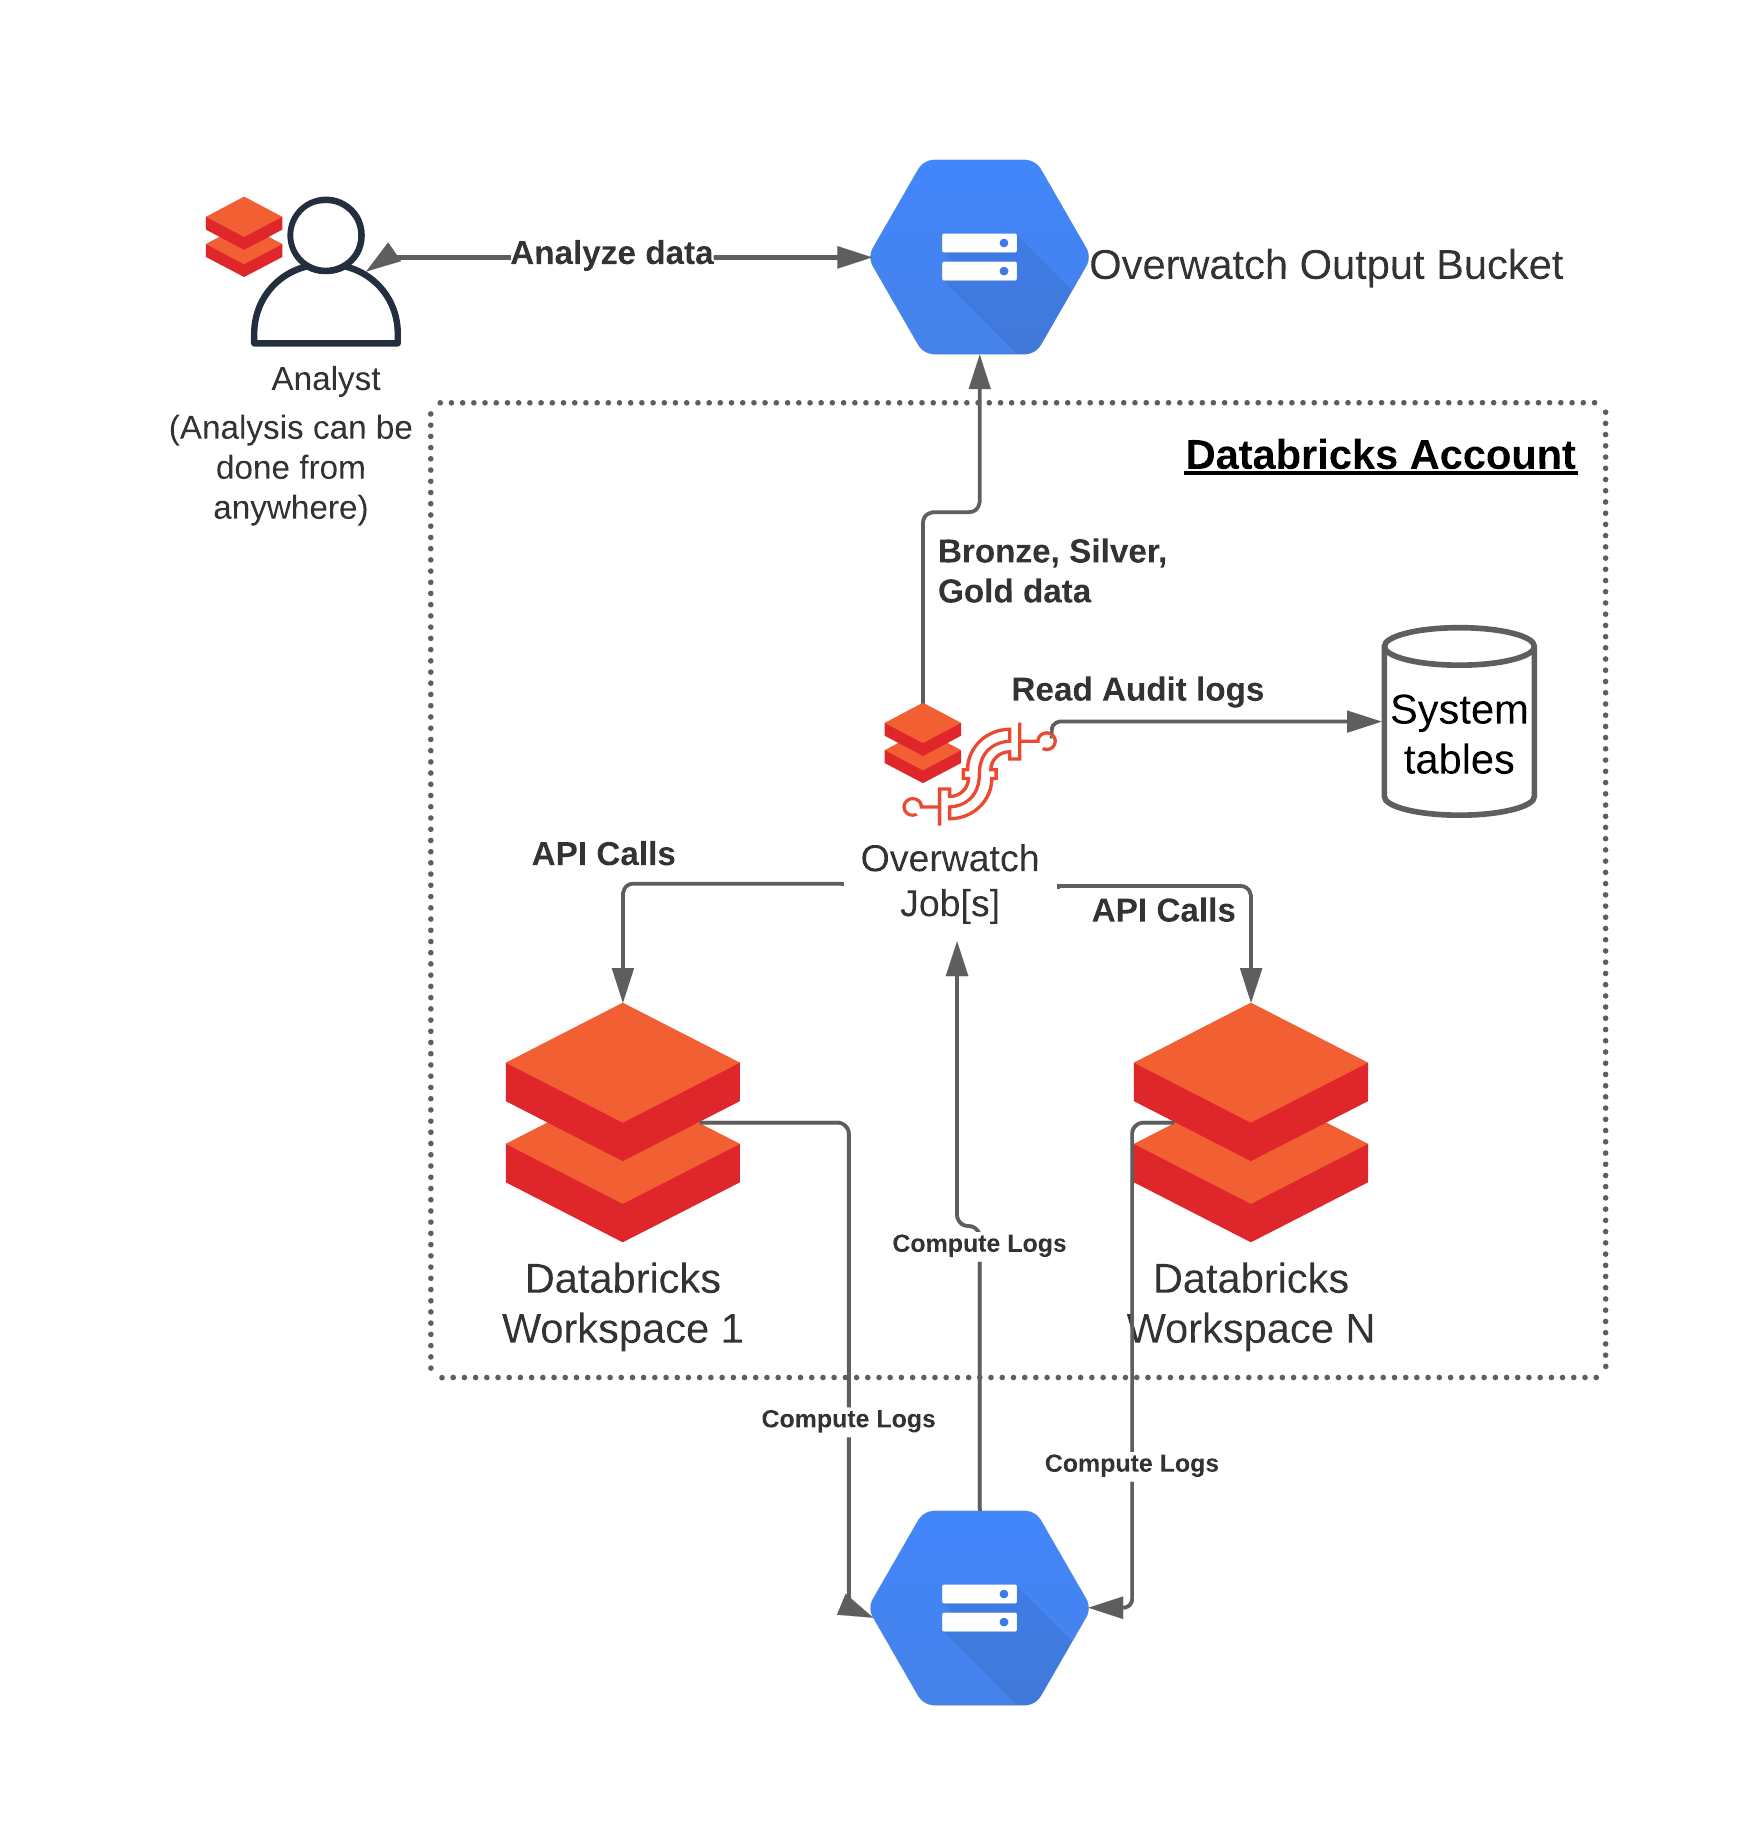
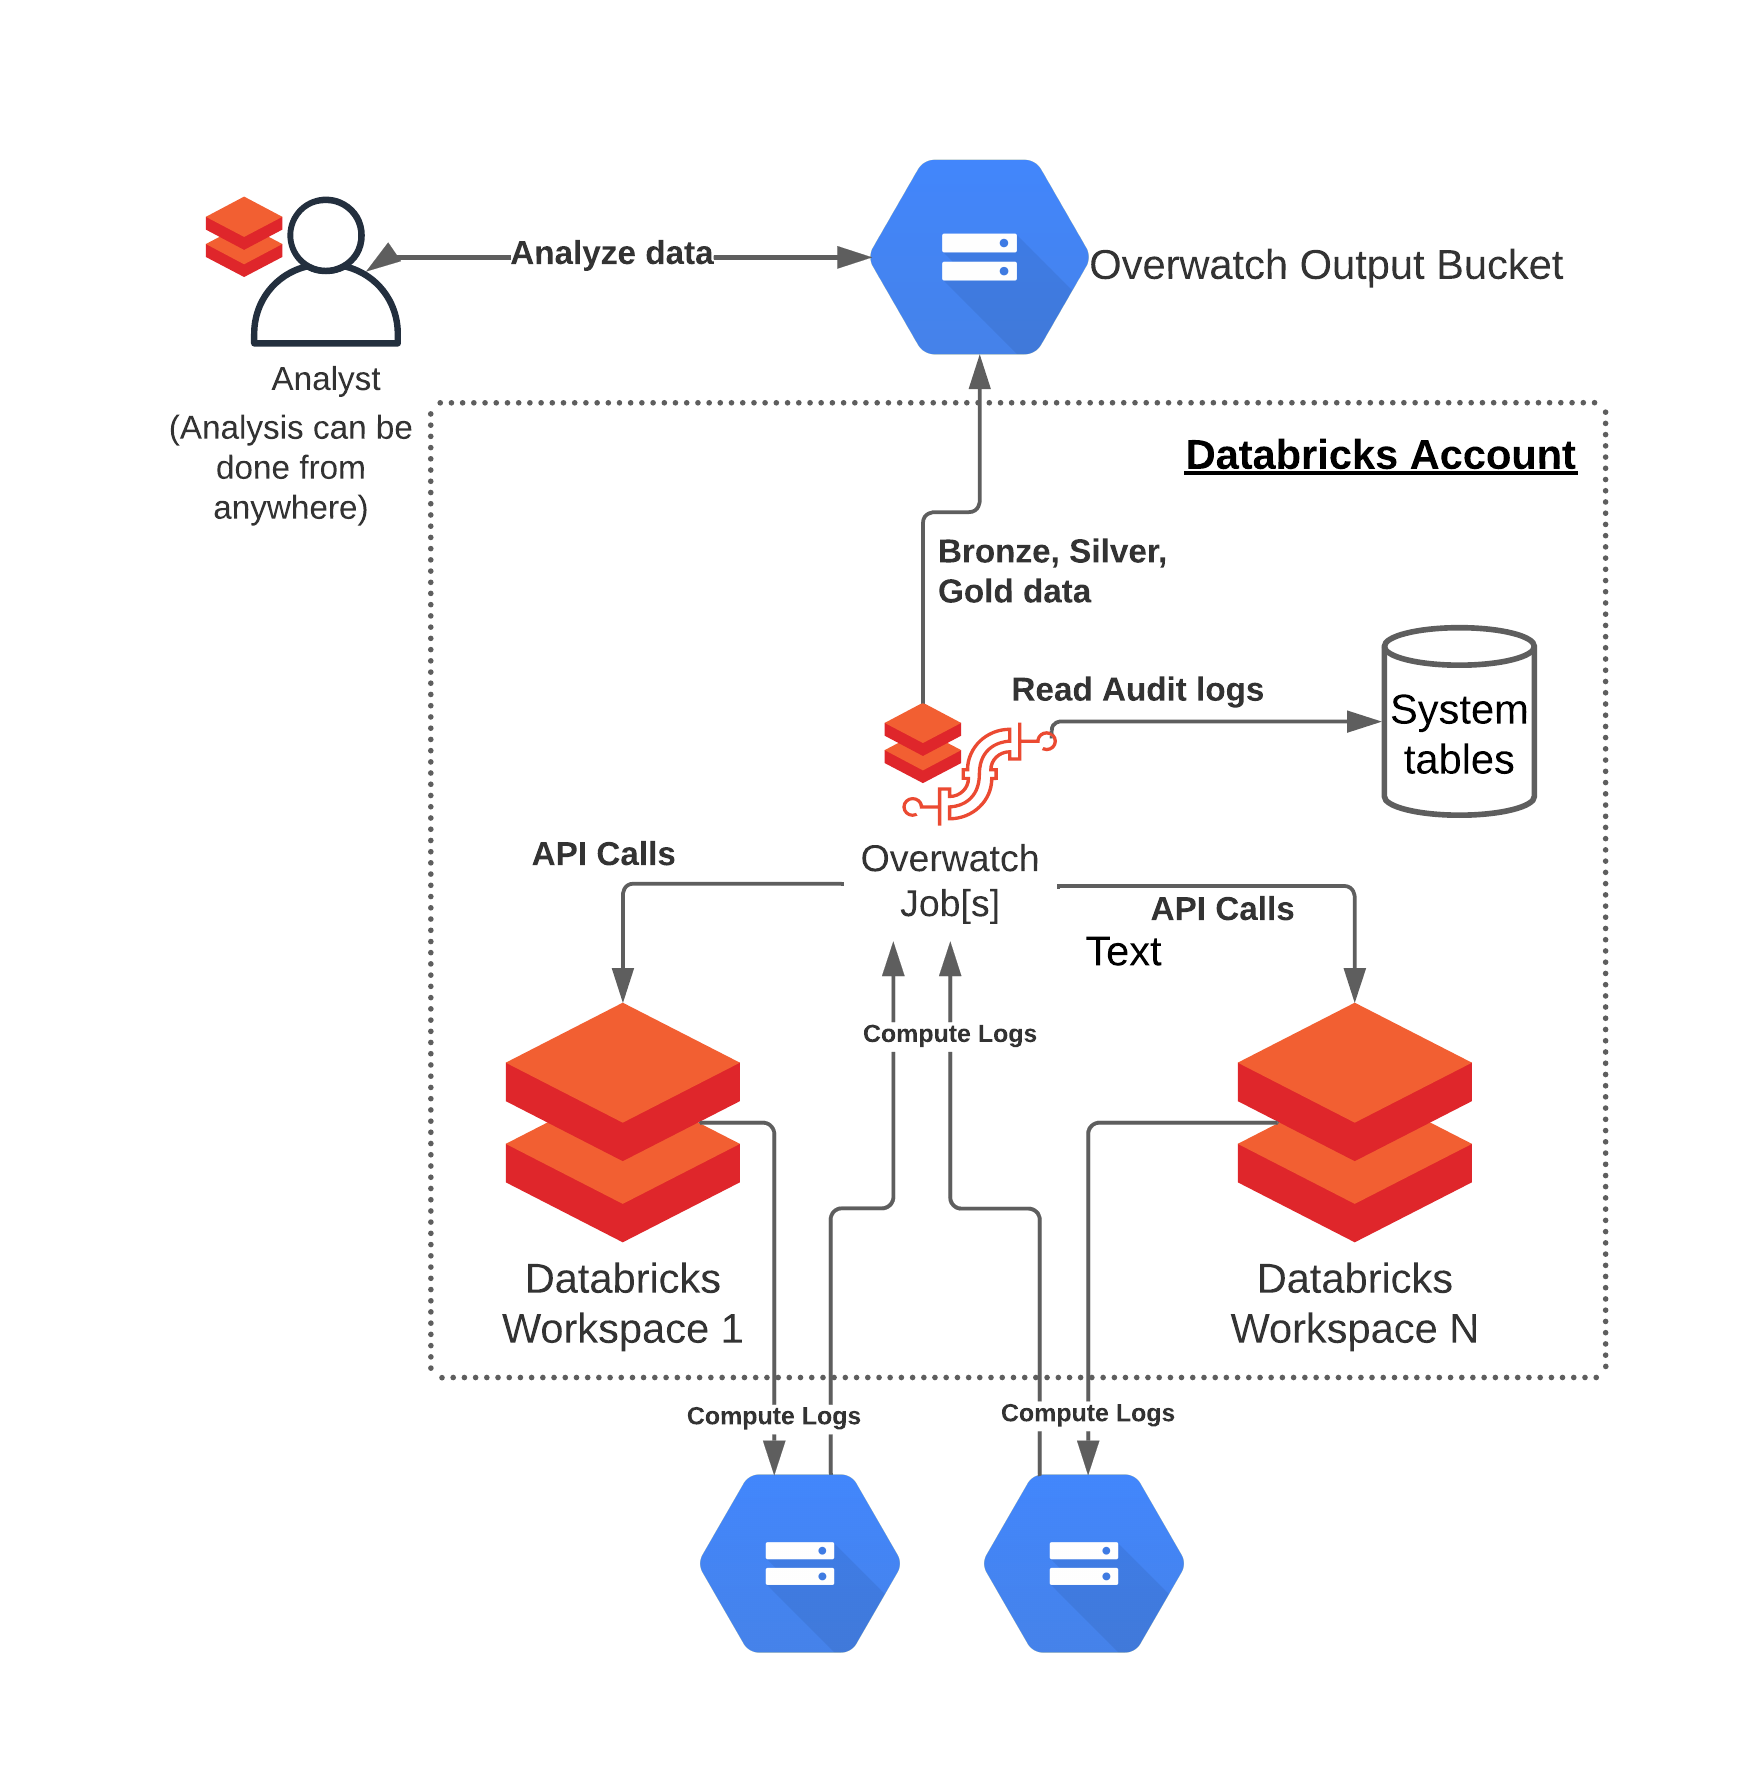
updated GCP ref arch

diff --git a/docs-compose/overwatch_docs/content/DeployOverwatch/SystemTableIntegration/_index.md b/docs-compose/overwatch_docs/content/DeployOverwatch/SystemTableIntegration/_index.md
@@ -49,7 +49,7 @@ Specific differences are referenced below and detailed in this section of the do
 ## Migrating to System Table
 
 {{% notice warning %}}
-Once the deployment is migrated to System Tables, it cannot be reverted back to source the audit logs from S, GC Bucket
+Once the deployment is migrated to System Tables, it cannot be reverted back to source the audit logs from S3, GC Bucket
 or Azure Event Hubs i.e Legacy Deployment.
 {{% /notice %}}
 The migration to system tables is straightforward. Organizations can effortlessly transition from existing 
